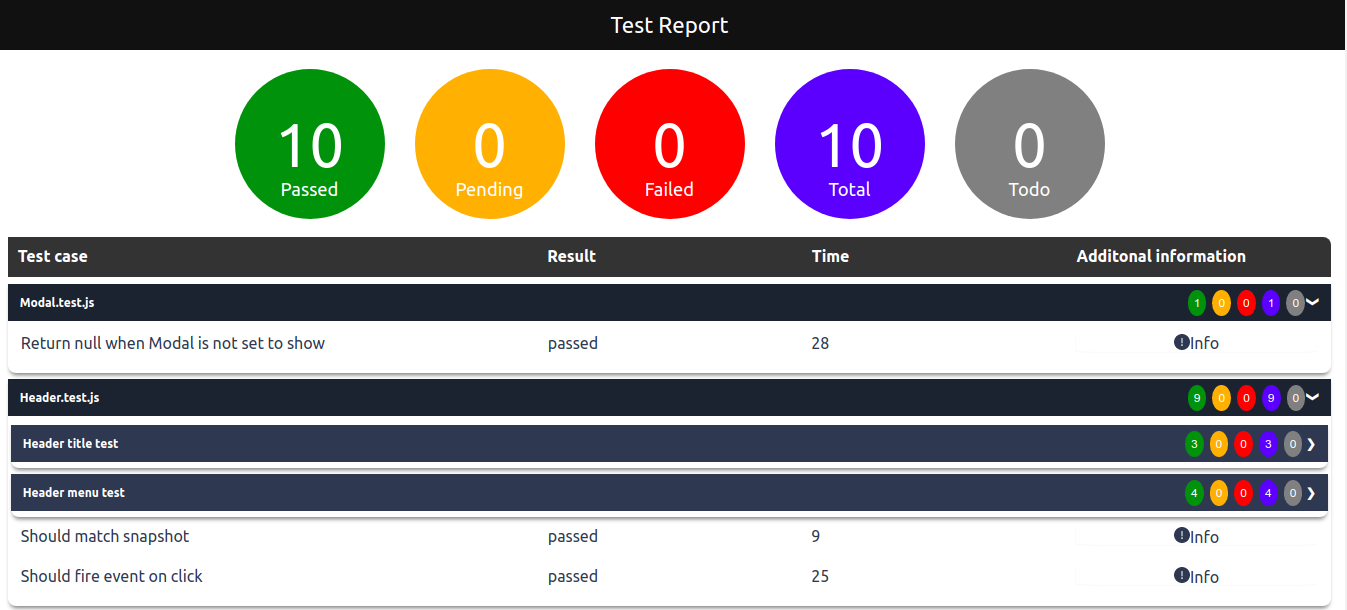
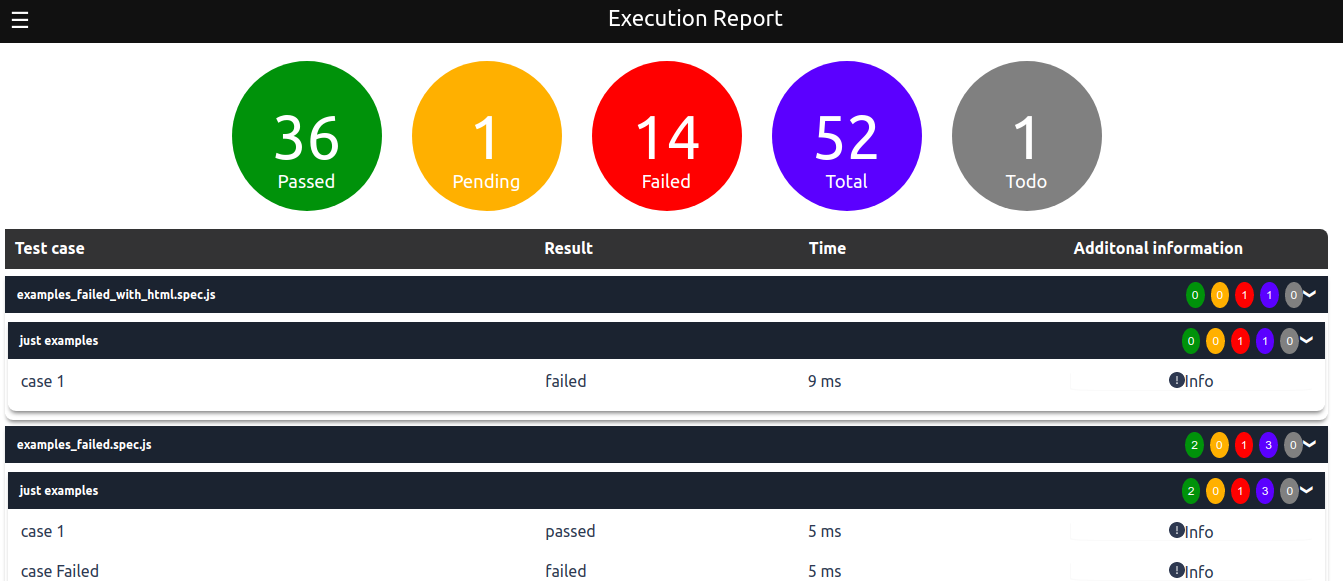
feat(UI) : format duration in report (#34)
* feat(UI) : format duration in report

* updated screenshot

diff --git a/src/Utilities/DateUtilities.test.js b/src/Utilities/DateUtilities.test.js
@@ -1,0 +1,68 @@
+import DateUtilities from './DateUtilities'
+describe('Timeformatting', () => {
+    test('Should return empty for null', () => {
+        let data = null;
+        let result = new DateUtilities().convertMillisecondsToTime(data);
+        expect(result).toEqual('');
+    });
+
+    test('Should return empty for undefined', () => {
+        let data = undefined;
+        let result = new DateUtilities().convertMillisecondsToTime(data);
+        expect(result).toEqual('');
+    });
+
+    test('Should return empty for invlid integer', () => {
+        let data = 'a';
+        let result = new DateUtilities().convertMillisecondsToTime(data);
+        expect(result).toEqual('');
+    });
+
+    test('Should return milliseconds', () => {
+        let data = 1;
+        let result = new DateUtilities().convertMillisecondsToTime(data);
+        expect(result).toEqual('1 ms');
+    });
+
+    test('Should return max milliseconds', () => {
+        let data = 999;
+        let result = new DateUtilities().convertMillisecondsToTime(data);
+        expect(result).toEqual('999 ms');
+    });
+
+    test('Should return seconds', () => {
+        let data = 1000;
+        let result = new DateUtilities().convertMillisecondsToTime(data);
+        expect(result).toEqual('1 secs');
+    });
+
+    test('Should return seconds as floor', () => {
+        let data = 1999;
+        let result = new DateUtilities().convertMillisecondsToTime(data);
+        expect(result).toEqual('1 secs');
+    });
+
+    test('Should return minutes', () => {
+        let data = 60000;
+        let result = new DateUtilities().convertMillisecondsToTime(data);
+        expect(result).toEqual('1 mins');
+    });
+
+    test('Should return minutes and seconds', () => {
+        let data = 65000;
+        let result = new DateUtilities().convertMillisecondsToTime(data);
+        expect(result).toEqual('1 mins : 5 secs');
+    });
+
+    test('Should return hours', () => {
+        let data = 1000 * 60 * 60;
+        let result = new DateUtilities().convertMillisecondsToTime(data);
+        expect(result).toEqual('1 hrs');
+    });
+
+    test('Should return hours and minutes', () => {
+        let data = 1000 * 61 * 60;
+        let result = new DateUtilities().convertMillisecondsToTime(data);
+        expect(result).toEqual('1 hrs : 1 mins');
+    });
+})

diff --git a/src/Components/Modal/Modal.js b/src/Components/Modal/Modal.js
@@ -1,6 +1,7 @@
 import React from "react";
 import "./Modal.css";
 import PropTypes from 'prop-types'
+import DateUtilities from './../../Utilities/DateUtilities'
 var Convert = require('ansi-to-html');
 var convert = new Convert();
 export default class Modal extends React.Component {
@@ -30,6 +31,10 @@ export default class Modal extends React.Component {
         }
         return { __html: result };
     }
+
+    formatTime(value) {
+        return new DateUtilities().convertMillisecondsToTime(value);
+    }
     render() {
         if (!this.props.show) {
             return null;
@@ -47,7 +52,7 @@ export default class Modal extends React.Component {
                                 </tr>
                                 <tr>
                                     <td>Duration</td>
-                                    <td>{this.props.modelData.duration}</td>
+                                    <td>{this.formatTime(this.props.modelData.duration)}</td>
                                     <td>Status</td>
                                     <td>{this.props.modelData.status}</td>
                                 </tr>
@@ -61,7 +66,7 @@ export default class Modal extends React.Component {
                         </table>
 
                     </div>
-                </div >
+                </div>
             );
         }
     }

diff --git a/src/Components/Grid/TabContent.js b/src/Components/Grid/TabContent.js
@@ -2,7 +2,11 @@ import React, { Component, Fragment } from 'react';
 import './TabContent.css'
 import TabHeading from './TabHeading';
 import PropTypes from 'prop-types'
+import DateUtilities from "./../../Utilities/DateUtilities";
 class TabContent extends Component {
+    formatTime(value) {
+        return new DateUtilities().convertMillisecondsToTime(value);
+    }
     render() {
         const hasChildren = this.props.item.children && this.props.item.children.length > 0;
         let content;
@@ -13,7 +17,7 @@ class TabContent extends Component {
             content = <Fragment>
                 <div className="column testcase">{this.props.item.title}</div>
                 <div className="column result">{this.props.item.status}</div>
-                <div className="column time">{this.props.item.duration}</div>
+                <div className="column time">{this.formatTime(this.props.item?.duration)}</div>
                 <div className="column information">
                     <div className="informationicon" onClick={() => this.props.onShowModel(this.props.item)}>
                         <i>

diff --git a/src/Components/Modal/Modal.test.js b/src/Components/Modal/Modal.test.js
@@ -2,10 +2,19 @@ import '@testing-library/jest-dom'
 import React from 'react';
 import Modal from './Modal';
 import { render } from '@testing-library/react';
+import DateUtilities from './../../Utilities/DateUtilities'
 test('Return null when Modal is not set to show', () => {
     const { container } = render(
-        <Modal show={false} onClose={function () { }} modelData={function () { }}>
+        <Modal show={false} onClose={function () { }} modelData={{}}>
         </Modal>
     );
     expect(container.firstChild).toBeNull();
+});
+test('Should contain formated time', () => {
+    let data = { title: 'Test Title', duration: 25, status: 'passed', failureMessages: [] };
+    const { container } = render(
+        <Modal show={true} onClose={function () { }} modelData={data}>
+        </Modal>
+    );
+    expect(container.firstChild.firstChild.textContent.indexOf(new DateUtilities().convertMillisecondsToTime(25))).toBeGreaterThan(0);
 });

diff --git a/src/Utilities/DateUtilities.js b/src/Utilities/DateUtilities.js
@@ -1,0 +1,20 @@
+export default class DateUtilities {
+    constructor() { }
+    convertMillisecondsToTime(milliSeconds) {
+        if (milliSeconds && !isNaN(milliSeconds)) {
+            let seconds = (milliSeconds / 1000);
+            let minutes = (seconds / 60);
+            let hours = (minutes / 60);
+            if (Math.floor(hours) > 0)
+                return Math.floor(hours) + " hrs" + (Math.floor(minutes % 60) ? " : " + Math.floor(minutes % 60) + " mins" : '');
+            else if (Math.floor(minutes) > 0)
+                return Math.floor(minutes) + " mins" + (Math.floor(seconds % 60) ? " : " + Math.floor(seconds % 60) + " secs" : '');
+            else if (Math.floor(seconds) > 0)
+                return Math.floor(seconds) + " secs";
+            else
+                return milliSeconds + " ms"
+        }
+        else
+            return '';
+    }
+}

diff --git a/src/Components/Grid/TabContent.test.js b/src/Components/Grid/TabContent.test.js
@@ -1,0 +1,13 @@
+import '@testing-library/jest-dom'
+import React from 'react';
+import TabContent from './TabContent';
+import { render } from '@testing-library/react';
+import DateUtilities from './../../Utilities/DateUtilities'
+test('Should contain formated time', () => {
+    let data = { title: 'Test Title', duration: 25, status: 'passed', failureMessages: [] };
+    const { container } = render(
+        <TabContent onShowModel={function () { }} item={data}>
+        </TabContent>
+    );
+    expect(container.textContent.indexOf(new DateUtilities().convertMillisecondsToTime(25))).toBeGreaterThan(0);
+});
